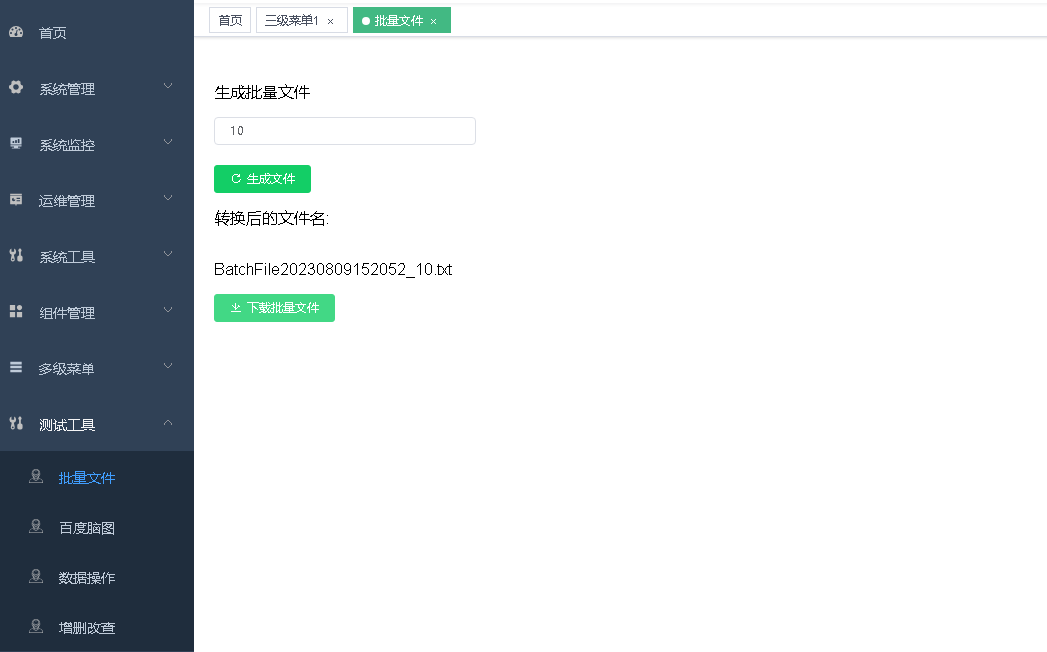
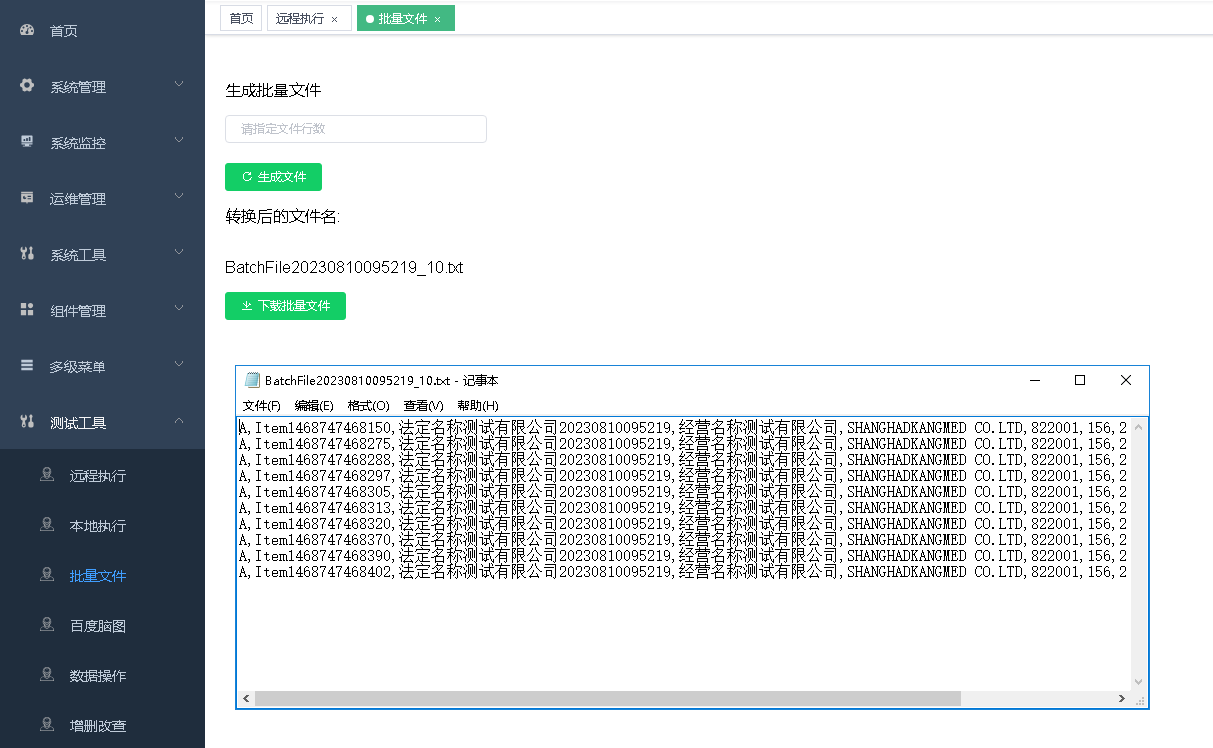
enable remote command tool

diff --git a/fastadmin-web/src/views/fasttest/rcommand/index.vue b/fastadmin-web/src/views/fasttest/rcommand/index.vue
@@ -1,0 +1,57 @@
+<template>
+  <div class="app-container">
+    <!--工具栏-->
+    <div class="head-container" />
+
+    <div class="block">
+      <p>运行远程命令</p>
+      <el-row :gutter="20">
+        <el-col :span="4">
+          <el-input v-model="command.cmd" size="mini" placeholder="请指定远程命令" />
+        </el-col>
+      </el-row>
+      <el-row>
+        <el-col :span="24" :style="{ height: '20px' }" />
+      </el-row>
+      <el-row>
+        <el-col :span="2">
+          <el-button type="success" size="mini" icon="el-icon-refresh-right" @click.native="run">运行</el-button>
+        </el-col>
+      </el-row>
+      <el-row>
+        <p>运行结果</p>
+        <textarea v-model="result" id="content" name="content" rows="20" cols="80"></textarea>
+      </el-row>
+    </div>
+  </div>
+</template>
+<script>
+
+import run from '@/api/fasttest/rcommand'
+export default {
+  name: 'Rcommand',
+  data() {
+    return {
+      command: {
+        cmd: ''
+      },
+      result: ''
+    }
+  },
+  methods: {
+    run() {
+      run(this.command).then(response => {
+        this.result = response
+      }).catch(function(err) {
+        console.log(err)
+      })
+    }
+  }
+}
+</script>
+
+<style rel="stylesheet/scss" lang="scss" scoped>
+::v-deep .el-input-number .el-input__inner {
+  text-align: left;
+}
+</style>

diff --git a/fastadmin-web/src/api/fasttest/rcommand.js b/fastadmin-web/src/api/fasttest/rcommand.js
@@ -1,0 +1,9 @@
+import request from '@/utils/request'
+
+export default function run(data) {
+  return request({
+    url: 'api/rcommand',
+    method: 'post',
+    data
+  })
+}

diff --git a/fastadmin/fasttest/src/main/java/me/zhengjie/utils/fasttest/SshHelper.java b/fastadmin/fasttest/src/main/java/me/zhengjie/utils/fasttest/SshHelper.java
@@ -1,0 +1,62 @@
+package me.zhengjie.utils.fasttest;
+
+import com.jcraft.jsch.*;
+
+import java.io.IOException;
+import java.io.InputStream;
+
+public class SshHelper {
+
+    public static String run(String command, boolean withCert) {
+        String host = "192.168.0.1";
+        String privateKeyPath = "";
+        int port = 22;
+        String username = "user";
+        String password = "pass";
+        if (withCert) {
+            privateKeyPath = "path_to_private_key_file";
+        }
+
+        StringBuilder output = new StringBuilder();
+        try {
+            JSch jsch = new JSch();
+            if(withCert) {
+                jsch.addIdentity(privateKeyPath);
+            }
+            Session session = jsch.getSession(username, host, port);
+            if(!withCert) {
+                session.setPassword(password);
+            }
+            session.setConfig("StrictHostKeyChecking", "no");
+            session.connect();
+
+            Channel channel = session.openChannel("exec");
+            ((ChannelExec) channel).setCommand(command);
+            channel.setInputStream(null);
+            ((ChannelExec) channel).setErrStream(System.err);
+
+            InputStream inputStream = channel.getInputStream();
+            channel.connect();
+
+            // 读取命令输出
+            byte[] buffer = new byte[1024];
+
+            int bytesRead;
+            while ((bytesRead = inputStream.read(buffer)) != -1) {
+                output.append(new String(buffer, 0, bytesRead));
+            }
+
+            // 打印命令输出
+            System.out.println(output.toString());
+
+            channel.disconnect();
+            session.disconnect();
+        } catch (JSchException e) {
+            e.printStackTrace();
+        } catch (IOException e) {
+            e.printStackTrace();
+        }
+
+        return output.toString();
+    }
+}

diff --git a/fastadmin/fasttest/src/main/java/me/zhengjie/modules/fasttest/rest/RemoteCommandController.java b/fastadmin/fasttest/src/main/java/me/zhengjie/modules/fasttest/rest/RemoteCommandController.java
@@ -3,8 +3,8 @@ package me.zhengjie.modules.fasttest.rest;
 import io.swagger.annotations.Api;
 import lombok.RequiredArgsConstructor;
 import me.zhengjie.annotation.AnonymousAccess;
-import me.zhengjie.modules.fasttest.domain.LocalCommand;
-import me.zhengjie.thread.CommandThread;
+import me.zhengjie.modules.fasttest.domain.RemoteCommand;
+import me.zhengjie.utils.fasttest.SshHelper;
 import org.slf4j.Logger;
 import org.slf4j.LoggerFactory;
 import org.springframework.http.ResponseEntity;
@@ -13,21 +13,19 @@ import org.springframework.web.bind.annotation.RequestBody;
 import org.springframework.web.bind.annotation.RequestMapping;
 import org.springframework.web.bind.annotation.RestController;
 
+
 @RestController
 @RequiredArgsConstructor
-@Api(tags = "FastTest：运行本地命令")
-@RequestMapping("/api/lcommand")
-public class LocalCommandController {
+@Api(tags = "FastTest：运行远程命令")
+@RequestMapping("/api/rcommand")
+public class RemoteCommandController {
     private static final Logger logger = LoggerFactory.getLogger(Km2XlsController.class);
-
 
     @PostMapping
     @AnonymousAccess
-    public Object run(@RequestBody LocalCommand command) {
-        CommandThread commandThread = new CommandThread();
-        Thread thread = new Thread(commandThread);
-        thread.start();
-        return ResponseEntity.ok();
+    public Object run(@RequestBody RemoteCommand command) {
+        String output = SshHelper.run(command.getCmd(), false);
+        return ResponseEntity.ok(output);
     }
 
 }

diff --git a/fastadmin/fasttest/src/main/java/me/zhengjie/modules/fasttest/domain/RemoteCommand.java b/fastadmin/fasttest/src/main/java/me/zhengjie/modules/fasttest/domain/RemoteCommand.java
@@ -1,0 +1,9 @@
+package me.zhengjie.modules.fasttest.domain;
+
+import lombok.Data;
+
+@Data
+public class RemoteCommand {
+
+    public String cmd;
+}

diff --git a/fastadmin/fasttest/src/main/java/me/zhengjie/modules/fasttest/domain/LocalCommand.java b/fastadmin/fasttest/src/main/java/me/zhengjie/modules/fasttest/domain/LocalCommand.java
@@ -1,0 +1,7 @@
+package me.zhengjie.modules.fasttest.domain;
+
+import lombok.Data;
+
+@Data
+public class LocalCommand {
+}

diff --git a/README.md b/README.md
@@ -42,8 +42,11 @@
 ![alt text](https://github.com/jumper2014/fast-test/blob/main/doc/image/fastadmin/lockuser.PNG)
 - 生成批量文件示例
 ![alt text](https://github.com/jumper2014/fast-test/blob/main/doc/image/fastadmin/batch.PNG)
-- 启动本地命令
+- 运行本地命令
 ![alt text](https://github.com/jumper2014/fast-test/blob/main/doc/image/fastadmin/lcommand.PNG)
+- 运行远程命令
+![alt text](https://github.com/jumper2014/fast-test/blob/main/doc/image/fastadmin/rcommand.PNG)
+
 
 #### 测试工具示例
 - 常见测试相关库使用示例

diff --git a/fastadmin/fasttest/README.md b/fastadmin/fasttest/README.md
@@ -5,8 +5,9 @@
 - 数据增删该查 (done)
 - 批量文本文件生成 (done)
 - 本地命令执行 (done)
-- 远程命令执行
-- 数据库SQL文件执行
+- 远程命令执行 (done)
 - 文件上传远程服务器
+- 测试进度管理
+- 数据库SQL文件执行
 - XMind脑图测试用例转Excel
 - Json格式化工具页面
